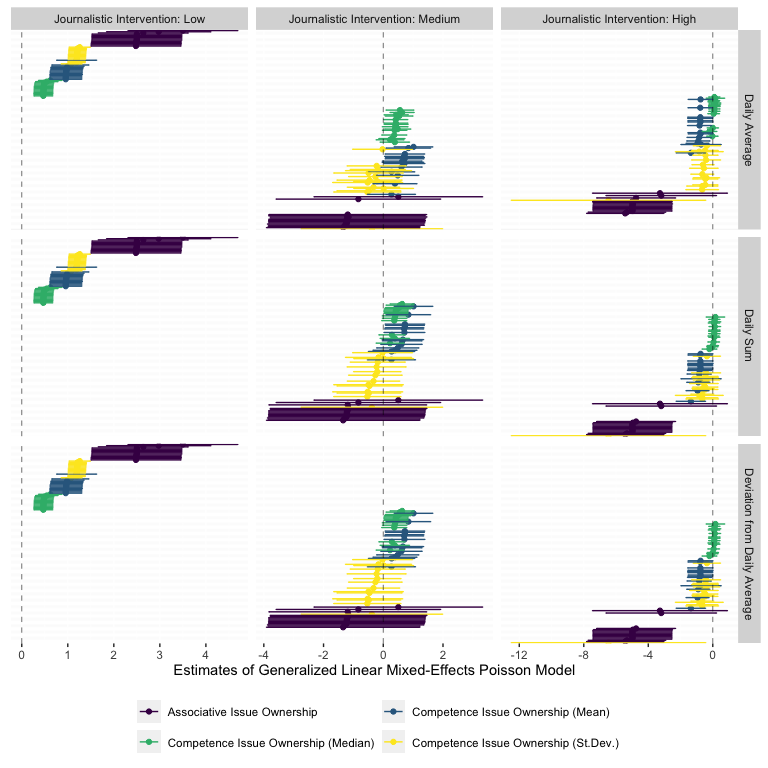
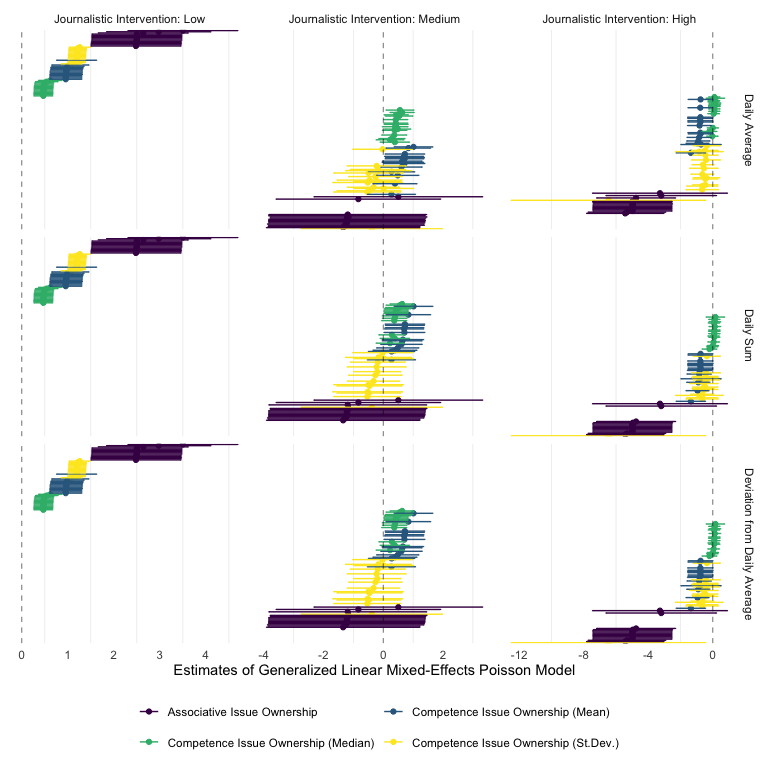
change ficolor of estimates in figures

Changed region(s): [[0.0, 0.0, 1.0, 0.8438]]

diff --git a/src/analysis/analysis.md b/src/analysis/analysis.md
@@ -106,11 +106,13 @@ h2 %>%
   labs(y = "", x = "Estimates of Generalized Linear Mixed-Effects Poisson Model") +
 #       title = "Effect of Standing in the Polls on # Negative Appeals",
 #      subtitle = "Controlled for Ideological Extremity and Issue Ownership" ) +
+  theme_minimal() +
   theme(plot.title = element_text(hjust = 0.5),
         plot.subtitle = element_text(hjust = 0.5),
         axis.title.y=element_blank(),
         axis.text.y=element_blank(),
-        axis.ticks.y=element_blank(),
+        axis.ticks = element_blank(),
+        panel.grid.major = element_blank(),
         legend.position="bottom",
         legend.title = element_blank()) +
   scale_color_viridis_d() +
@@ -134,13 +136,15 @@ h3 %>%
   geom_point() + geom_errorbar() +
   facet_grid(id~subsets, scales = "free") +
   labs(y = "", x = "Estimates of Generalized Linear Mixed-Effects Poisson Model" ) + 
-  #       title = "Effect of Ideologically Extremity on # Negative Appeals",
+    #       title = "Effect of Ideologically Extremity on # Negative Appeals",
   #       subtitle = "Controlled for Standing in the Polls and Issue Ownership" ) +
+  theme_minimal() +
   theme(plot.title = element_text(hjust = 0.5),
         plot.subtitle = element_text(hjust = 0.5),
         axis.title.y=element_blank(),
         axis.text.y=element_blank(),
-        axis.ticks.y=element_blank(),
+        axis.ticks = element_blank(),
+        panel.grid.major = element_blank(),
         legend.position="bottom",
         legend.title = element_blank()) +
   scale_color_viridis_d() +
@@ -164,13 +168,15 @@ h4 %>%
   geom_point() + geom_errorbar() +
   facet_grid(id~subsets, scales = "free") +
   labs(y = "", x = "Estimates of Generalized Linear Mixed-Effects Poisson Model") +
+  theme_minimal() +
   #       title = "Effect of Issue Ownership  on # Negative Appeals",
   #       subtitle = "Controlled for Standing in the Polls and Issue Ownership" ) +
   theme(plot.title = element_text(hjust = 0.5),
         plot.subtitle = element_text(hjust = 0.5),
         axis.title.y=element_blank(),
         axis.text.y=element_blank(),
-        axis.ticks.y=element_blank(),
+        axis.ticks = element_blank(),
+        panel.grid.major = element_blank(),
         legend.position="bottom",
         legend.title = element_blank()) +
   scale_color_viridis_d() +
